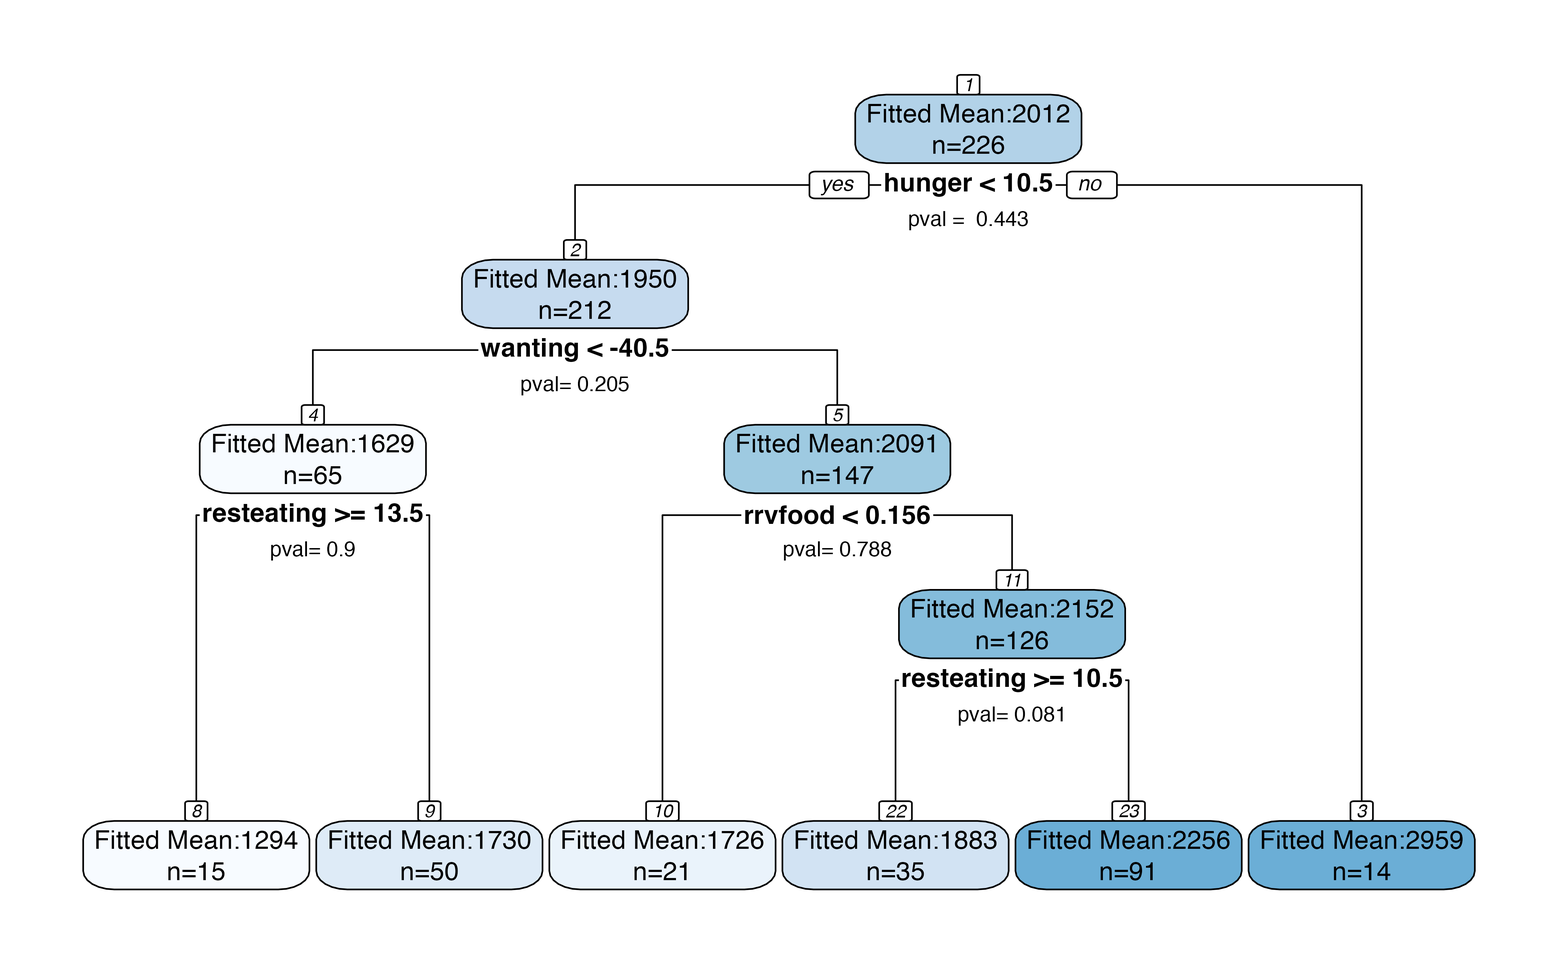
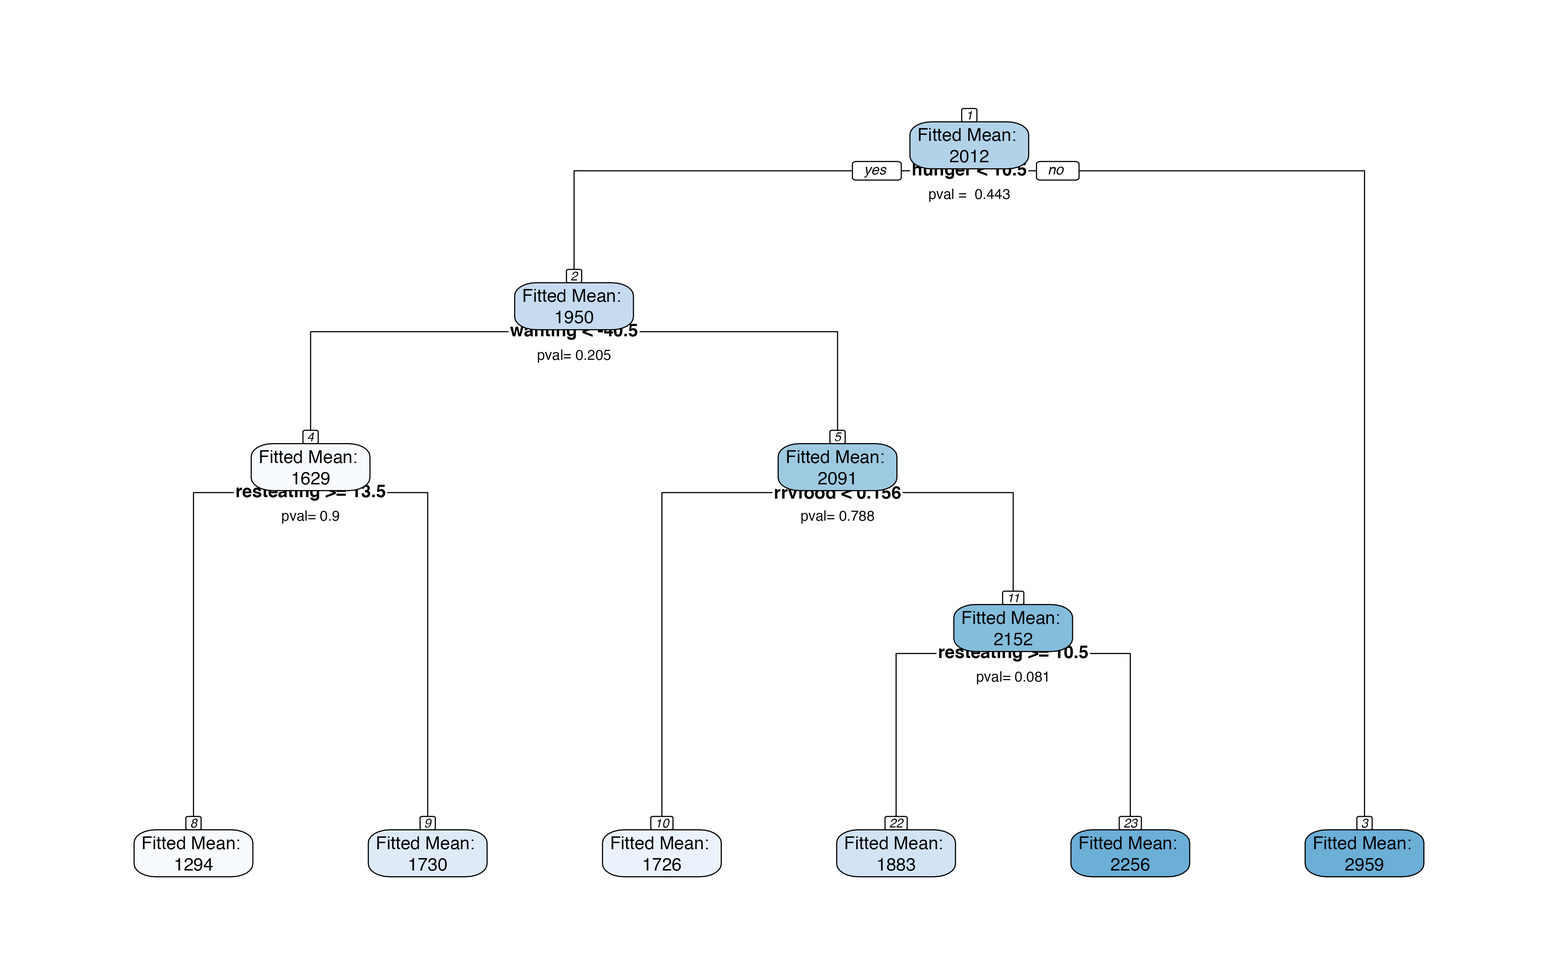
Bigger font in the example tree again by adding pruning

diff --git a/docs/articles/overview.html b/docs/articles/overview.html
@@ -85,7 +85,7 @@
 <code class="sourceCode R"><span class="kw"><a href="https://rdrr.io/r/base/library.html">library</a></span><span class="op">(</span><span class="va"><a href="https://github.com/bethatkinson/rpart">rpart</a></span><span class="op">)</span>
 <span class="kw"><a href="https://rdrr.io/r/base/library.html">library</a></span><span class="op">(</span><span class="va"><a href="http://www.milbo.org/rpart-plot/index.html">rpart.plot</a></span><span class="op">)</span>
 <span class="fu"><a href="https://rdrr.io/r/utils/data.html">data</a></span><span class="op">(</span><span class="va">blsdata</span>, package<span class="op">=</span><span class="st">"treevalues"</span><span class="op">)</span>
-<span class="va">bls.tree</span> <span class="op">&lt;-</span><span class="fu"><a href="https://rdrr.io/pkg/rpart/man/rpart.html">rpart</a></span><span class="op">(</span><span class="va">kcal24h0</span><span class="op">~</span><span class="va">hunger</span><span class="op">+</span><span class="va">disinhibition</span><span class="op">+</span><span class="va">resteating</span><span class="op">+</span><span class="va">rrvfood</span><span class="op">+</span><span class="va">liking</span><span class="op">+</span><span class="va">wanting</span>, model <span class="op">=</span> <span class="cn">TRUE</span>, data <span class="op">=</span> <span class="va">blsdata</span><span class="op">)</span>
+<span class="va">bls.tree</span> <span class="op">&lt;-</span><span class="fu"><a href="https://rdrr.io/pkg/rpart/man/rpart.html">rpart</a></span><span class="op">(</span><span class="va">kcal24h0</span><span class="op">~</span><span class="va">hunger</span><span class="op">+</span><span class="va">disinhibition</span><span class="op">+</span><span class="va">resteating</span><span class="op">+</span><span class="va">rrvfood</span><span class="op">+</span><span class="va">liking</span><span class="op">+</span><span class="va">wanting</span>, model <span class="op">=</span> <span class="cn">TRUE</span>, data <span class="op">=</span> <span class="va">blsdata</span>, cp<span class="op">=</span><span class="fl">0.02</span><span class="op">)</span>
 <span class="fu"><a href="https://rdrr.io/pkg/rpart.plot/man/rpart.plot.html">rpart.plot</a></span><span class="op">(</span><span class="va">bls.tree</span>, extra<span class="op">=</span><span class="fl">1</span>, nn<span class="op">=</span><span class="cn">TRUE</span><span class="op">)</span></code></pre></div>
 <p><img src="overview_files/figure-html/unnamed-chunk-2-1.png" width="90%"></p>
 <p>Suppose that we want to know whether the first split in the tree is statistically significant. In other words, we want to know if the average number of calories consumed by individuals with <code>hunger &lt; 11</code> is truly different than the average number of calories consumed by individuals with <code>hunger &gt;= 11</code>. Because we used our data to select these two subgroups, we cannot naively “double dip” in the same data to test for a difference in means between the two subgroups. The package <code>treevalues</code> provides a way to test for this difference in means without double-dipping in the data. The package implements the selective inference framework described in <span class="citation">Neufeld, Gao, and Witten (2021)</span>; for more details, see the <a href="???">preprint</a>.</p>
@@ -95,7 +95,8 @@
 <code class="sourceCode R"><span class="fu">devtools</span><span class="fu">::</span><span class="fu"><a href="https://devtools.r-lib.org//reference/remote-reexports.html">install_github</a></span><span class="op">(</span><span class="st">"anna-neufeld/treevalues"</span><span class="op">)</span></code></pre></div>
 <div class="sourceCode" id="cb3"><pre class="downlit sourceCode r">
 <code class="sourceCode R"><span class="kw"><a href="https://rdrr.io/r/base/library.html">library</a></span><span class="op">(</span><span class="va"><a href="https://github.com/anna-neufeld/treevalues">treevalues</a></span><span class="op">)</span>
-<span class="fu"><a href="../reference/treeval.plot.html">treeval.plot</a></span><span class="op">(</span><span class="va">bls.tree</span><span class="op">)</span></code></pre></div>
+<span class="fu"><a href="../reference/treeval.plot.html">treeval.plot</a></span><span class="op">(</span><span class="va">bls.tree</span><span class="op">)</span>
+<span class="co">## [1] 2</span></code></pre></div>
 <p><img src="overview_files/figure-html/unnamed-chunk-4-1.png" width="90%"></p>
 <div id="references" class="section level1 unnumbered">
 <h1 class="hasAnchor">

diff --git a/docs/reference/inferenceFrame.html b/docs/reference/inferenceFrame.html
@@ -41,8 +41,9 @@
 
 <meta property="og:title" content="This function can optionally be used prior to running ``treeval.plot`` to make ``treeval.plot`` run more efficiently. — inferenceFrame" />
 <meta property="og:description" content="This function is computationally expensive, especially if ``CI=TRUE`` and/or ``permute=TRUE``. Ths function is called internally by ``treeval.plot``,
-as it updates ``tree$frame`` to store information (pvalues and confidence intervals) that will be printed
-internally by ``treeval.plot``." />
+as it updates ``tree$frame`` to store information (pvalues and confidence intervals) that will be printed by ``treeval.plot()``. If you will be
+making several plots while playing around with font size and formatting, it is a good idea to call this function first so that it need not be called
+repeatedly by different calls of treeval.plot" />
 
 
 
@@ -120,8 +121,9 @@ internally by ``treeval.plot``." />
 
     <div class="ref-description">
     <p>This function is computationally expensive, especially if ``CI=TRUE`` and/or ``permute=TRUE``. Ths function is called internally by ``treeval.plot``,
-as it updates ``tree$frame`` to store information (pvalues and confidence intervals) that will be printed
-internally by ``treeval.plot``.</p>
+as it updates ``tree$frame`` to store information (pvalues and confidence intervals) that will be printed by ``treeval.plot()``. If you will be
+making several plots while playing around with font size and formatting, it is a good idea to call this function first so that it need not be called
+repeatedly by different calls of treeval.plot</p>
     </div>
 
     <pre class="usage"><span class='fu'>inferenceFrame</span><span class='op'>(</span>
@@ -169,6 +171,16 @@ standard deviation of the response) is used.</p></td>
     <p>An rpart object. Identical to ``tree`` expect that now ``tree$frame`` has two extra columns; one storing p-values for splits and the other
 storing confidence intervals for regions. If this object is passed in to ``treeval.plot``, the plots will be made more efficiently.</p>
 
+    <h2 class="hasAnchor" id="examples"><a class="anchor" href="#examples"></a>Examples</h2>
+    <pre class="examples"><div class='input'><span class='kw'>if</span> <span class='op'>(</span><span class='cn'>FALSE</span><span class='op'>)</span> <span class='op'>{</span>
+<span class='kw'><a href='https://rdrr.io/r/base/library.html'>library</a></span><span class='op'>(</span><span class='va'><a href='https://github.com/bethatkinson/rpart'>rpart</a></span><span class='op'>)</span>
+<span class='va'>bls.tree</span> <span class='op'>&lt;-</span><span class='fu'><a href='https://rdrr.io/pkg/rpart/man/rpart.html'>rpart</a></span><span class='op'>(</span><span class='va'>kcal24h0</span><span class='op'>~</span><span class='va'>hunger</span><span class='op'>+</span><span class='va'>disinhibition</span><span class='op'>+</span><span class='va'>resteating</span><span class='op'>+</span><span class='va'>rrvfood</span><span class='op'>+</span><span class='va'>liking</span><span class='op'>+</span><span class='va'>wanting</span>, model <span class='op'>=</span> <span class='cn'>TRUE</span>, data <span class='op'>=</span> <span class='va'>blsdata</span>, cp<span class='op'>=</span><span class='fl'>0.02</span><span class='op'>)</span>
+<span class='va'>bls.tree2</span> <span class='op'>&lt;-</span> <span class='fu'>inferenceFrame</span><span class='op'>(</span><span class='va'>bls.tree</span><span class='op'>)</span>
+<span class='fu'><a href='treeval.plot.html'>treeval.plot</a></span><span class='op'>(</span><span class='va'>bls.tree2</span>, inferenceType<span class='op'>=</span><span class='fl'>1</span><span class='op'>)</span>
+<span class='fu'><a href='treeval.plot.html'>treeval.plot</a></span><span class='op'>(</span><span class='va'>bls.tree2</span>, inferenceType<span class='op'>=</span><span class='fl'>2</span><span class='op'>)</span>
+<span class='fu'><a href='treeval.plot.html'>treeval.plot</a></span><span class='op'>(</span><span class='va'>bls.tree2</span>, inferenceType<span class='op'>=</span><span class='fl'>2</span>, nn<span class='op'>=</span><span class='cn'>FALSE</span><span class='op'>)</span>
+<span class='op'>}</span>
+</div></pre>
   </div>
   <div class="col-md-3 hidden-xs hidden-sm" id="pkgdown-sidebar">
     <nav id="toc" data-toggle="toc" class="sticky-top">

diff --git a/docs/reference/computeCI.html b/docs/reference/computeCI.html
@@ -6,7 +6,8 @@
 <meta http-equiv="X-UA-Compatible" content="IE=edge">
 <meta name="viewport" content="width=device-width, initial-scale=1.0">
 
-<title>compute selective confidence intervals — computeCI • treevalues</title>
+<title>Compute selective confidence interval for parameter v^T mu based on a truncated normal distribution. A slight modiication of code found in the
+Outference package, available at https://github.com/shuxiaoc/outference. — computeCI • treevalues</title>
 
 
 <!-- jquery -->
@@ -39,9 +40,10 @@
 
 
 
-<meta property="og:title" content="compute selective confidence intervals — computeCI" />
-<meta property="og:description" content="This function computes the selective confidence intervals.
-Code modified from the Outference package, available at https://github.com/shuxiaoc/outference." />
+<meta property="og:title" content="Compute selective confidence interval for parameter v^T mu based on a truncated normal distribution. A slight modiication of code found in the
+Outference package, available at https://github.com/shuxiaoc/outference. — computeCI" />
+<meta property="og:description" content="Compute selective confidence interval for parameter v^T mu based on a truncated normal distribution. A slight modiication of code found in the
+Outference package, available at https://github.com/shuxiaoc/outference." />
 
 
 
@@ -112,14 +114,15 @@ Code modified from the Outference package, available at https://github.com/shuxi
 <div class="row">
   <div class="col-md-9 contents">
     <div class="page-header">
-    <h1>compute selective confidence intervals</h1>
+    <h1>Compute selective confidence interval for parameter v^T mu based on a truncated normal distribution. A slight modiication of code found in the
+Outference package, available at https://github.com/shuxiaoc/outference.</h1>
     <small class="dont-index">Source: <a href='https://github.com/anna-neufeld/treevalues/blob/master/R/conf_int_funs.R'><code>R/conf_int_funs.R</code></a></small>
     <div class="hidden name"><code>computeCI.Rd</code></div>
     </div>
 
     <div class="ref-description">
-    <p>This function computes the selective confidence intervals.
-Code modified from the Outference package, available at https://github.com/shuxiaoc/outference.</p>
+    <p>Compute selective confidence interval for parameter v^T mu based on a truncated normal distribution. A slight modiication of code found in the
+Outference package, available at https://github.com/shuxiaoc/outference.</p>
     </div>
 
     <pre class="usage"><span class='fu'>computeCI</span><span class='op'>(</span><span class='va'>v</span>, <span class='va'>y</span>, sigma <span class='op'>=</span> <span class='cn'>NULL</span>, <span class='va'>truncation</span>, alpha <span class='op'>=</span> <span class='fl'>0.05</span><span class='op'>)</span></pre>
@@ -129,7 +132,7 @@ Code modified from the Outference package, available at https://github.com/shuxi
     <colgroup><col class="name" /><col class="desc" /></colgroup>
     <tr>
       <th>v</th>
-      <td><p>the contrast vector that defines the parameter of interest</p></td>
+      <td><p>the vector that defines the parameter of interest; v^T mu</p></td>
     </tr>
     <tr>
       <th>y</th>

diff --git a/docs/articles/inference_tutorial.html b/docs/articles/inference_tutorial.html
@@ -168,8 +168,19 @@
 <a href="#inference-for-the-entire-tree" class="anchor"></a>Inference for the entire tree</h1>
 <p>We can bypass the need to specify a specific branch by making the following plot, which includes p-values for each split and confidence intervals for each region. We can just see this in a plot. By default, the plot makes 95% confidence intervals for the mean within each region and reports p-values for a test of no difference in means across each split. When looking at a large tree, this plot should be interpretted with care; the p-values have not been corrected for multiple testing.</p>
 <div class="sourceCode" id="cb11"><pre class="downlit sourceCode r">
-<code class="sourceCode R"><span class="fu"><a href="../reference/treeval.plot.html">treeval.plot</a></span><span class="op">(</span><span class="va">bls.tree</span><span class="op">)</span></code></pre></div>
+<code class="sourceCode R"><span class="fu"><a href="../reference/treeval.plot.html">treeval.plot</a></span><span class="op">(</span><span class="va">bls.tree</span><span class="op">)</span>
+<span class="co">## [1] 2</span></code></pre></div>
 <p><img src="inference_tutorial_files/figure-html/unnamed-chunk-11-1.png" width="90%"></p>
+<p>If we set <code>permute=TRUE</code>, we will get slightly narrower confidence intervals in each node, at the expense of computation time.</p>
+<div class="sourceCode" id="cb12"><pre class="downlit sourceCode r">
+<code class="sourceCode R"><span class="fu"><a href="../reference/treeval.plot.html">treeval.plot</a></span><span class="op">(</span><span class="va">bls.tree</span>, permute<span class="op">=</span><span class="cn">TRUE</span><span class="op">)</span>
+<span class="co">## [1] 2</span></code></pre></div>
+<p><img src="inference_tutorial_files/figure-html/unnamed-chunk-12-1.png" width="90%"></p>
+<p>There are many ways to customize this plot. If the default version is too congested, alternate values of <code>inferenceType</code> can be provided to customize how much information is displayed. Addional arguements provided will be passed on to `<code>rpart.plot()</code>. For example,</p>
+<div class="sourceCode" id="cb13"><pre class="downlit sourceCode r">
+<code class="sourceCode R"><span class="fu"><a href="../reference/treeval.plot.html">treeval.plot</a></span><span class="op">(</span><span class="va">bls.tree</span>, inferenceType<span class="op">=</span><span class="fl">1</span>, cex<span class="op">=</span><span class="fl">0.5</span>, printn<span class="op">=</span><span class="cn">FALSE</span><span class="op">)</span>
+<span class="co">## [1] 2</span></code></pre></div>
+<p><img src="inference_tutorial_files/figure-html/unnamed-chunk-13-1.png" width="90%"></p>
 </div>
 <div id="references" class="section level1 unnumbered">
 <h1 class="hasAnchor">

diff --git a/docs/reference/getDesc.html b/docs/reference/getDesc.html
@@ -6,7 +6,7 @@
 <meta http-equiv="X-UA-Compatible" content="IE=edge">
 <meta name="viewport" content="width=device-width, initial-scale=1.0">
 
-<title>Returns vector of descendents in ``tree`` for node ``nn``. — getDesc • treevalues</title>
+<title>Returns vector of descendants in ``tree`` for node ``nn``. — getDesc • treevalues</title>
 
 
 <!-- jquery -->
@@ -39,8 +39,8 @@
 
 
 
-<meta property="og:title" content="Returns vector of descendents in ``tree`` for node ``nn``. — getDesc" />
-<meta property="og:description" content="Returns vector of descendents in ``tree`` for node ``nn``." />
+<meta property="og:title" content="Returns vector of descendants in ``tree`` for node ``nn``. — getDesc" />
+<meta property="og:description" content="Returns vector of descendants in ``tree`` for node ``nn``." />
 
 
 
@@ -111,13 +111,13 @@
 <div class="row">
   <div class="col-md-9 contents">
     <div class="page-header">
-    <h1>Returns vector of descendents in ``tree`` for node ``nn``.</h1>
+    <h1>Returns vector of descendants in ``tree`` for node ``nn``.</h1>
     <small class="dont-index">Source: <a href='https://github.com/anna-neufeld/treevalues/blob/master/R/tree_KL_helpers.R'><code>R/tree_KL_helpers.R</code></a></small>
     <div class="hidden name"><code>getDesc.Rd</code></div>
     </div>
 
     <div class="ref-description">
-    <p>Returns vector of descendents in ``tree`` for node ``nn``.</p>
+    <p>Returns vector of descendants in ``tree`` for node ``nn``.</p>
     </div>
 
     <pre class="usage"><span class='fu'>getDesc</span><span class='op'>(</span><span class='va'>tree</span>, <span class='va'>nn</span><span class='op'>)</span></pre>
@@ -131,13 +131,13 @@
     </tr>
     <tr>
       <th>nn</th>
-      <td><p>the number of a node in tree. Note that node numbers correspond to the row names of tree$frame.</p></td>
+      <td><p>the number of a node in tree. Must correspond to a valid node number (found in row names of tree$frame).</p></td>
     </tr>
     </table>
 
     <h2 class="hasAnchor" id="value"><a class="anchor" href="#value"></a>Value</h2>
 
-    <p>a vector of descendents.</p>
+    <p>a vector of node numbers corresponding to the descendants of ``nn`` in ``tree``.</p>
 
   </div>
   <div class="col-md-3 hidden-xs hidden-sm" id="pkgdown-sidebar">

diff --git a/docs/reference/correctPVal.html b/docs/reference/correctPVal.html
@@ -6,7 +6,7 @@
 <meta http-equiv="X-UA-Compatible" content="IE=edge">
 <meta name="viewport" content="width=device-width, initial-scale=1.0">
 
-<title>Get a pvalue for a selective Z-test. — correctPVal • treevalues</title>
+<title>Get a pvalue for a selective Z-test using a truncated normal distribution. — correctPVal • treevalues</title>
 
 
 <!-- jquery -->
@@ -39,10 +39,10 @@
 
 
 
-<meta property="og:title" content="Get a pvalue for a selective Z-test. — correctPVal" />
+<meta property="og:title" content="Get a pvalue for a selective Z-test using a truncated normal distribution. — correctPVal" />
 <meta property="og:description" content="Based on the similar function from the Outference package,
 which accomplishes a similar task. Code modified from code found at
-https://github.com/shuxiaoc/outference" />
+https://github.com/shuxiaoc/outference." />
 
 
 
@@ -113,7 +113,7 @@ https://github.com/shuxiaoc/outference" />
 <div class="row">
   <div class="col-md-9 contents">
     <div class="page-header">
-    <h1>Get a pvalue for a selective Z-test.</h1>
+    <h1>Get a pvalue for a selective Z-test using a truncated normal distribution.</h1>
     <small class="dont-index">Source: <a href='https://github.com/anna-neufeld/treevalues/blob/master/R/pval_funs.R'><code>R/pval_funs.R</code></a></small>
     <div class="hidden name"><code>correctPVal.Rd</code></div>
     </div>
@@ -121,7 +121,7 @@ https://github.com/shuxiaoc/outference" />
     <div class="ref-description">
     <p>Based on the similar function from the Outference package,
 which accomplishes a similar task. Code modified from code found at
-https://github.com/shuxiaoc/outference</p>
+https://github.com/shuxiaoc/outference.</p>
     </div>
 
     <pre class="usage"><span class='fu'>correctPVal</span><span class='op'>(</span><span class='va'>phiInterval</span>, <span class='va'>nu</span>, <span class='va'>y</span>, <span class='va'>sigma</span><span class='op'>)</span></pre>
@@ -144,7 +144,7 @@ disjoint intervals on the real line.</p></td>
     </tr>
     <tr>
       <th>sigma</th>
-      <td><p>the (assumed known) noise standard deviation</p></td>
+      <td><p>the (assumed known) noise standard deviation. The assumption is that y_i ~ N(mu_i, sigma^2).</p></td>
     </tr>
     </table>
 

diff --git a/docs/reference/TNSurv.html b/docs/reference/TNSurv.html
@@ -6,8 +6,7 @@
 <meta http-equiv="X-UA-Compatible" content="IE=edge">
 <meta name="viewport" content="width=device-width, initial-scale=1.0">
 
-<title>Survival function of truncated normal distribution. This comes directly from the Outference Package.
-The code and the documentation can be found at https://github.com/shuxiaoc/outference. — TNSurv • treevalues</title>
+<title>Survival function of truncated normal distribution. This comes from the Outference Package https://github.com/shuxiaoc/outference. — TNSurv • treevalues</title>
 
 
 <!-- jquery -->
@@ -40,8 +39,7 @@ The code and the documentation can be found at https://github.com/shuxiaoc/outfe
 
 
 
-<meta property="og:title" content="Survival function of truncated normal distribution. This comes directly from the Outference Package.
-The code and the documentation can be found at https://github.com/shuxiaoc/outference. — TNSurv" />
+<meta property="og:title" content="Survival function of truncated normal distribution. This comes from the Outference Package https://github.com/shuxiaoc/outference. — TNSurv" />
 <meta property="og:description" content="This function returns the upper tail probability of a truncated normal distribution
     at quantile q." />
 
@@ -114,8 +112,7 @@ The code and the documentation can be found at https://github.com/shuxiaoc/outfe
 <div class="row">
   <div class="col-md-9 contents">
     <div class="page-header">
-    <h1>Survival function of truncated normal distribution. This comes directly from the Outference Package.
-The code and the documentation can be found at https://github.com/shuxiaoc/outference.</h1>
+    <h1>Survival function of truncated normal distribution. This comes from the Outference Package https://github.com/shuxiaoc/outference.</h1>
     <small class="dont-index">Source: <a href='https://github.com/anna-neufeld/treevalues/blob/master/R/conf_int_funs.R'><code>R/conf_int_funs.R</code></a></small>
     <div class="hidden name"><code>TNSurv.Rd</code></div>
     </div>

diff --git a/docs/reference/index.html b/docs/reference/index.html
@@ -189,7 +189,7 @@ labeled with confidence intervals.</p></td>
         <td>
           <p><code><a href="getDesc.html">getDesc()</a></code> </p>
         </td>
-        <td><p>Returns vector of descendents in ``tree`` for node ``nn``.</p></td>
+        <td><p>Returns vector of descendants in ``tree`` for node ``nn``.</p></td>
       </tr><tr>
         
         <td>
@@ -221,20 +221,20 @@ belong to the given region.</p></td>
         <td>
           <p><code><a href="correctPVal.html">correctPVal()</a></code> </p>
         </td>
-        <td><p>Get a pvalue for a selective Z-test.</p></td>
+        <td><p>Get a pvalue for a selective Z-test using a truncated normal distribution.</p></td>
       </tr><tr>
         
         <td>
           <p><code><a href="computeCI.html">computeCI()</a></code> </p>
         </td>
-        <td><p>compute selective confidence intervals</p></td>
+        <td><p>Compute selective confidence interval for parameter v^T mu based on a truncated normal distribution. A slight modiication of code found in the
+Outference package, available at https://github.com/shuxiaoc/outference.</p></td>
       </tr><tr>
         
         <td>
           <p><code><a href="TNSurv.html">TNSurv()</a></code> </p>
         </td>
-        <td><p>Survival function of truncated normal distribution. This comes directly from the Outference Package.
-The code and the documentation can be found at https://github.com/shuxiaoc/outference.</p></td>
+        <td><p>Survival function of truncated normal distribution. This comes from the Outference Package https://github.com/shuxiaoc/outference.</p></td>
       </tr><tr>
         
         <td>

diff --git a/docs/reference/getAnc.html b/docs/reference/getAnc.html
@@ -131,13 +131,13 @@
     </tr>
     <tr>
       <th>nn</th>
-      <td><p>the number of a node in tree. Note that node numbers correspond to the row names of tree$frame.</p></td>
+      <td><p>the number of a node in tree. Must correspond to a valid node number (found in row names of tree$frame).</p></td>
     </tr>
     </table>
 
     <h2 class="hasAnchor" id="value"><a class="anchor" href="#value"></a>Value</h2>
 
-    <p>a vector of ancestors.</p>
+    <p>a vector of node numbers corresponding to the ancestors of ``nn`` in ``tree``.</p>
 
   </div>
   <div class="col-md-3 hidden-xs hidden-sm" id="pkgdown-sidebar">

diff --git a/docs/reference/treeval.plot.html b/docs/reference/treeval.plot.html
@@ -142,7 +142,7 @@ labeled with confidence intervals.</p>
     <colgroup><col class="name" /><col class="desc" /></colgroup>
     <tr>
       <th>tree</th>
-      <td><p>An rpart tree. Note that the tree must have been built with arguements maxcompete=0 and maxsurrogates=0.</p></td>
+      <td><p>An rpart tree. The tree must have been build with parameter ``model=TRUE``.</p></td>
     </tr>
     <tr>
       <th>sigma_y</th>
